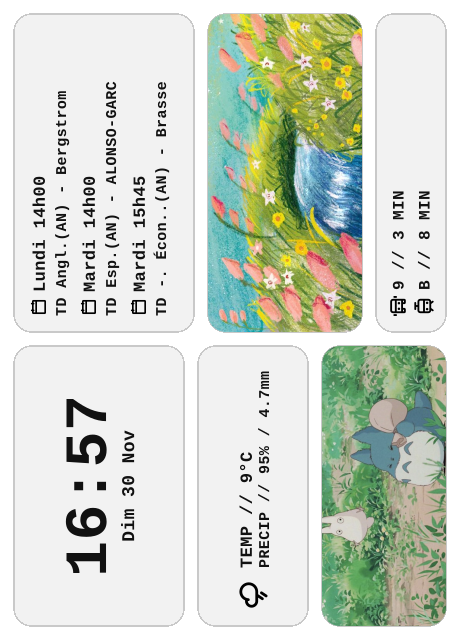
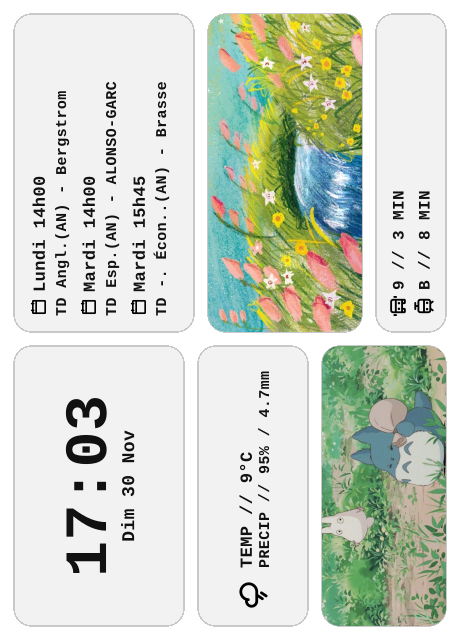
feat: Update time rendering to use Paris timezone for accurate display

Changed region(s): [[0.1217, 0.625, 0.2435, 0.75], [0.1217, 0.7812, 0.2435, 0.8438]]

diff --git a/index.js b/index.js
@@ -160,11 +160,12 @@ const fetchUpcomingCalendarEvents = async () => {
 }
 
 export async function renderTimePng () {
-  // Use local time (no API)
   const now = new Date()
-  const hh = String(now.getHours()).padStart(2, '0')
-  const mm = String(now.getMinutes()).padStart(2, '0')
-  const dateBelowClock = `${formatWeekdayShort(now)} ${String(now.getDate()).padStart(2, '0')} ${formatMonthShort(now)}`
+  const parisTime = new Date(now.toLocaleString('en-US', { timeZone: 'Europe/Paris' }))
+  console.log('Paris time:', parisTime.toString())
+  const hh = String(parisTime.getHours()).padStart(2, '0')
+  const mm = String(parisTime.getMinutes()).padStart(2, '0')
+  const dateBelowClock = `${formatWeekdayShort(parisTime)} ${String(parisTime.getDate()).padStart(2, '0')} ${formatMonthShort(parisTime)}`
   const timeText = `${hh}:${mm}`
   
   // Fetch current temperature and weather code from Open-Meteo API (Bordeaux, France coordinates)
